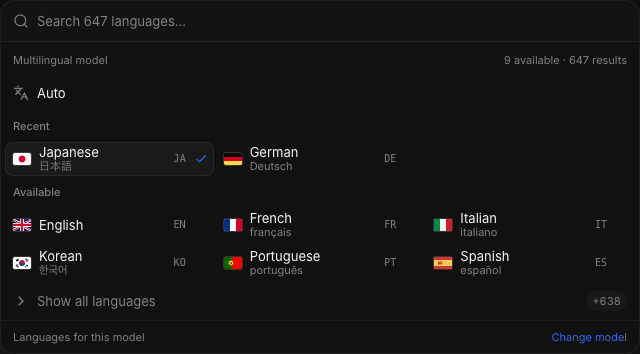
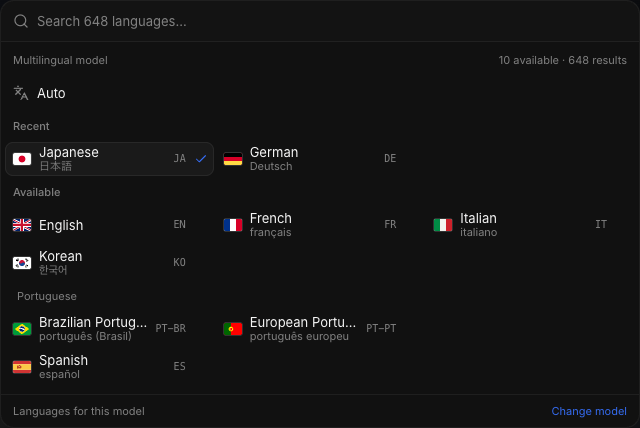
Group Portuguese variants in the language picker smoke fixture

diff --git a/electron/src/renderer/src/lib/language-options.test.ts b/electron/src/renderer/src/lib/language-options.test.ts
@@ -66,4 +66,11 @@ it('marks regional and script variants with their primary language for grouping'
   expect(traditional.family).toBe('cmn');
   expect(simplified.familyLabel).toBeTruthy();
   expect(german.family).toBeUndefined();
+  const [brazil, portugal] = languageOptions(
+    ['Portuguese (Brazil)', 'Portuguese (Portugal)'],
+    'en',
+    'Auto',
+  );
+  expect([brazil.family, portugal.family]).toEqual(['pt', 'pt']);
+  expect(brazil.familyLabel).toBe('Portuguese');
 });
